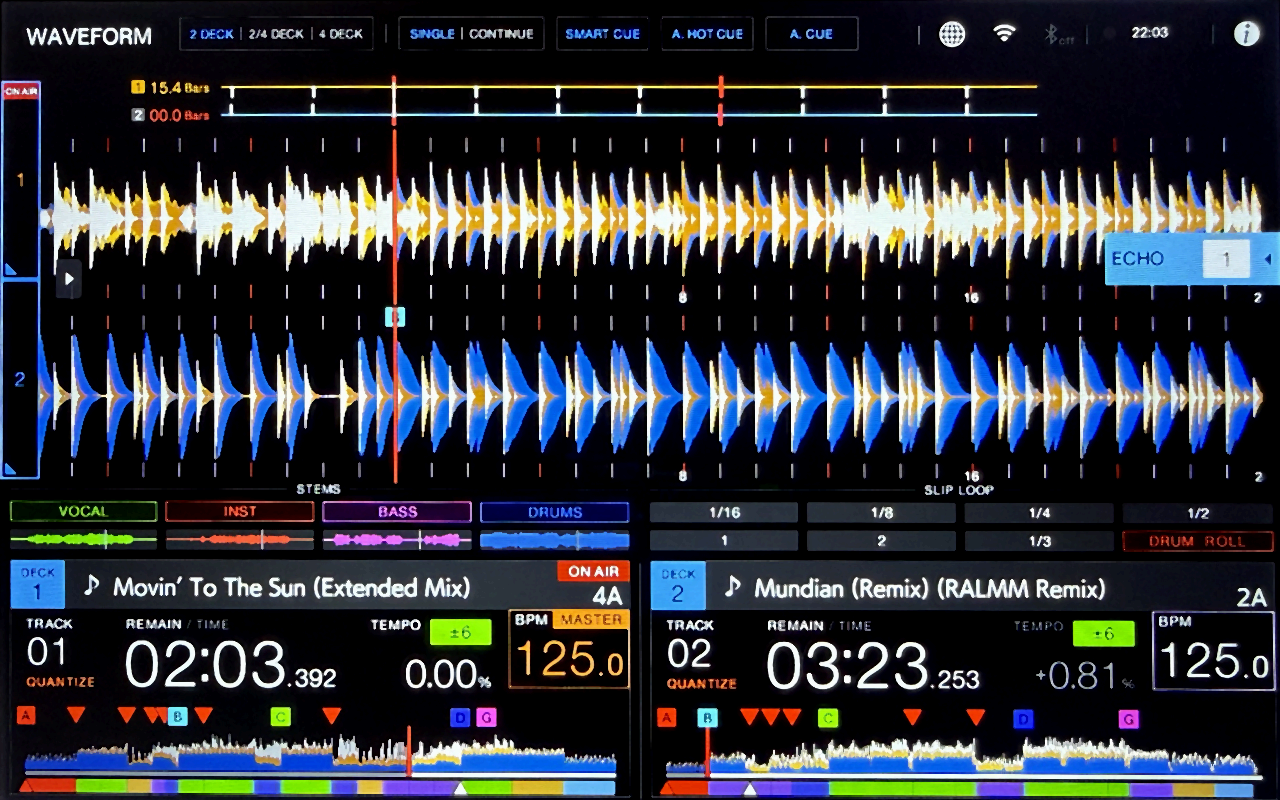
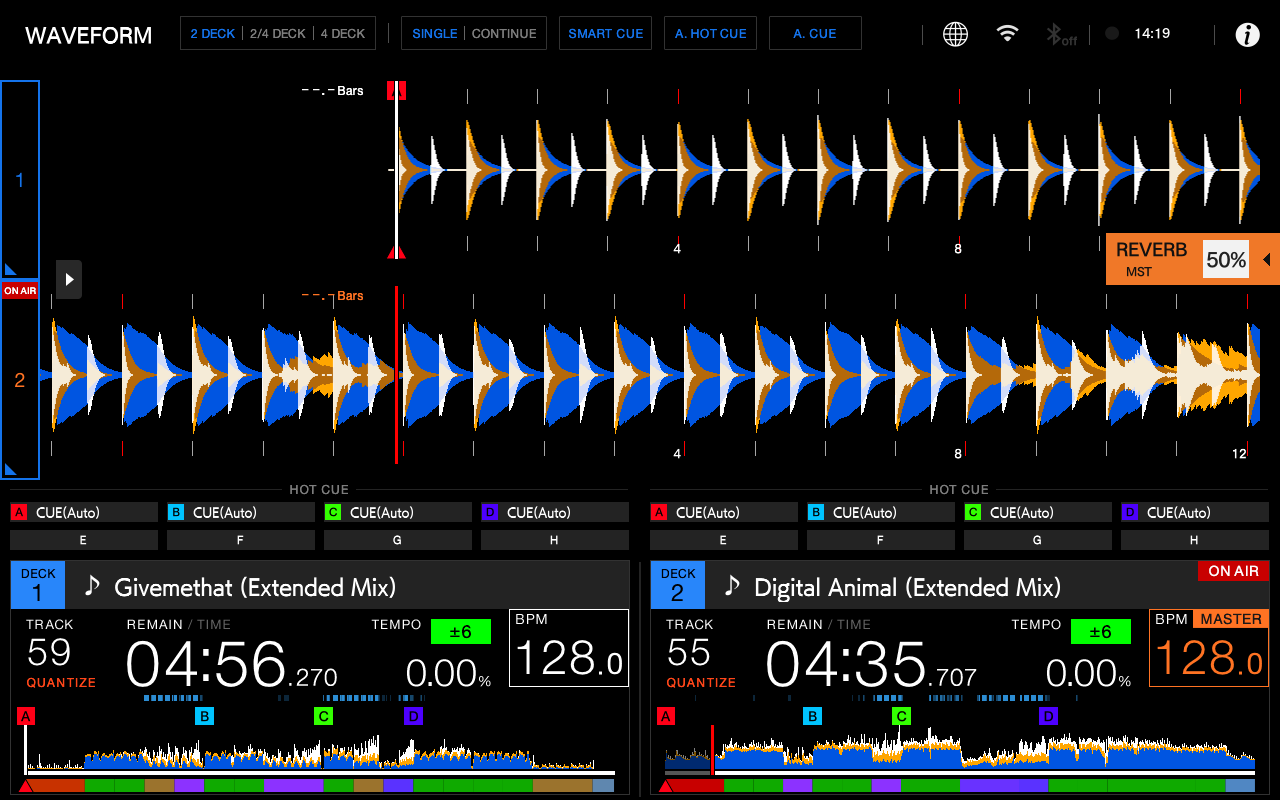
docs: deck screenshots for 1.1.0
Exact screenshots from b.sr's deck (xwd over SSH, read-only, 2026-11-07) in place of the 1.0
phone photos: REVERB on, ECHO 3/4 off with CH 1 in the channel row, and the stock panel next
to the label. The 1.1.0 entry in azmods-repo.json points to new release assets
(-shotN-deck.png), so decks that cached the old pictures fetch the new ones. The package and
its sha256 are unchanged.

diff --git a/README.md b/README.md
@@ -7,7 +7,7 @@ An [AZ-MODS](https://github.com/Kyle-Hosman/xdj-az-mods) community mod for the X
 If you want your screen space back for beat and phrase matching, and outstanding situational
 awareness of your Beat FX, this is your mod.
 
-![The WAVEFORM 2 DECK screen with ECHO on: the collapsed tab lit in blue, beat value 1](shots/1-on.png)
+![The WAVEFORM 2 DECK screen with REVERB on: the collapsed tab lit in orange, LENGTH 50%, MST in the channel row](shots/1-on.png)
 
 The BEAT FX panel takes a big part of the waveform screen while it is open. Collapsed, its tab
 shows only an arrow. Beat FX Tab turns that collapsed tab into a live display:
@@ -23,7 +23,7 @@ shows only an arrow. Beat FX Tab turns that collapsed tab into a live display:
 
 | Off | Played on the X-PAD |
 |---|---|
-| ![ECHO off: a grey tab, the name underlined in blue](shots/2-off.png) | ![ECHO played on the X-PAD: X-PAD in the box](docs/images/xpad.png) |
+| ![ECHO off: a grey tab, the name underlined in blue, beat 3/4, CH 1 in the channel row](shots/2-off.png) | ![ECHO played on the X-PAD: X-PAD in the box](docs/images/xpad.png) |
 
 The pictures are photos of the deck's screen, straightened; their colors are close, not exact.
 
